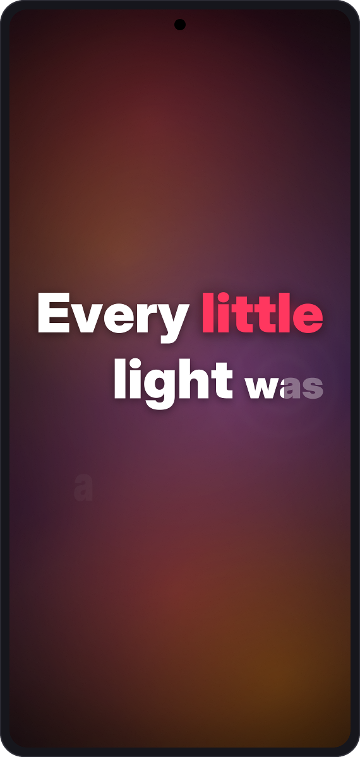
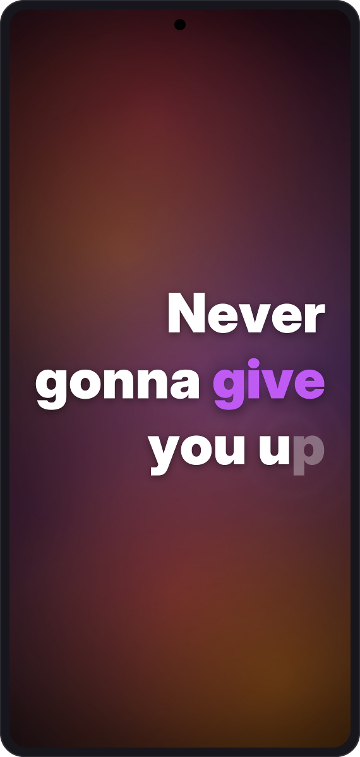
Screenshots: English shots use "Never gonna give you up"
Claude-Session: https://claude.ai/code/session_01MLXWG1CmD9ZGWnpi2j6esJ

Changed region(s): [[0.0917, 0.3646, 0.9167, 0.5469], [0.3972, 0.5773, 0.9167, 0.638]]

diff --git a/tools/screenshots/src/Render.kt b/tools/screenshots/src/Render.kt
@@ -221,13 +221,19 @@ class Shot(
     val at: Float,
     val seed: Int,
     val playSeed: Int,
+    /** How far through that word's sung time the frame is. */
+    val fill: Float = 0.5f,
 )
 
 const val W = 1080
 const val H = 2340
 
+/** Extra sample files that only the screenshots use. */
+val EXTRA_SAMPLES = File(System.getProperty("extraSamples") ?: "samples")
+
 fun findLine(file: String, prefix: String): LyricLine {
-    val lyrics = LyricsBuilder.fromLrc(File(SAMPLES, "$file.lrc").readText(), 180_000)
+    val src = File(EXTRA_SAMPLES, "$file.lrc").takeIf { it.exists() } ?: File(SAMPLES, "$file.lrc")
+    val lyrics = LyricsBuilder.fromLrc(src.readText(), 213_000)
     return lyrics.lines.first { it.text.startsWith(prefix) }
 }
 
@@ -240,7 +246,7 @@ fun renderStage(s: Shot, dim: Float = 1f): BufferedImage {
     val layout = template.layout(measured, stage, s.seed)
     val k = (line.words.size * s.at).toInt().coerceIn(0, line.words.lastIndex)
     val word = line.words[k]
-    val pos = word.startMs + (word.durationMs * 0.5).toLong()
+    val pos = word.startMs + (word.durationMs * s.fill).toLong()
     val highlights = Highlights.pick(line, s.playSeed)
     val accent = s.pal.accents[Highlights.accentIndex(line, s.playSeed)]
 
@@ -406,10 +412,10 @@ fun renderControls(base: BufferedImage, pal: Pal): BufferedImage {
     g.fill(RoundRectangle2D.Float(pad, y, thumb, thumb, 16 * dp, 16 * dp))
     g.color = Color.WHITE
     g.font = fSemi.deriveFont(18 * dp)
-    g.drawString("Paper Lanterns", pad + thumb + 14 * dp, y + 24 * dp)
+    g.drawString("Never Gonna Give You Up", pad + thumb + 14 * dp, y + 24 * dp)
     g.color = Color(255, 255, 255, 178)
     g.font = fRegular.deriveFont(14 * dp)
-    g.drawString("Test Artist", pad + thumb + 14 * dp, y + 46 * dp)
+    g.drawString("Rick Astley", pad + thumb + 14 * dp, y + 46 * dp)
     g.color = Color.WHITE
     g.font = fSemi.deriveFont(14 * dp)
     val st = "Settings"
@@ -418,7 +424,7 @@ fun renderControls(base: BufferedImage, pal: Pal): BufferedImage {
 
     // seek bar
     val trackW = W - pad * 2
-    val prog = 0.38f
+    val prog = 0.094f
     g.color = Color(255, 255, 255, 60)
     g.fill(RoundRectangle2D.Float(pad, y - 2 * dp, trackW, 4 * dp, 4 * dp, 4 * dp))
     g.color = Color.WHITE
@@ -427,8 +433,8 @@ fun renderControls(base: BufferedImage, pal: Pal): BufferedImage {
     y += 26 * dp
     g.color = Color(255, 255, 255, 178)
     g.font = fRegular.deriveFont(12 * dp)
-    g.drawString("1:12", pad, y)
-    val tot = "3:08"
+    g.drawString("0:20", pad, y)
+    val tot = "3:33"
     g.drawString(tot, W - pad - g.fontMetrics.stringWidth(tot), y)
     y += 40 * dp
 
@@ -534,8 +540,8 @@ fun main() {
     val rose = Pal(0xFF160812.toInt(), listOf(0xFFBF5AF2.toInt(), 0xFFFF375F.toInt(), 0xFFFF9F0A.toInt()))
 
     val shots = listOf(
-        Shot("stack", "english", "Every little light", TemplateId.STACK, sunset, 0.5f, 11, 4),
-        Shot("zoom", "english", "We lit the paper", TemplateId.ZOOM, dusk, 0.62f, 3, 9),
+        Shot("stack", "rickroll", "Never gonna", TemplateId.STACK, sunset, 0.85f, 11, 4),
+        Shot("zoom", "rickroll", "Never gonna", TemplateId.ZOOM, dusk, 0.85f, 3, 9, fill = -0.12f),
         Shot("graph", "hindi", "तेरी यादों", TemplateId.GRAPH, ember, 0.7f, 21, 2),
         Shot("flow", "japanese", "夜空に", TemplateId.FLOW, ocean, 0.55f, 5, 6),
         Shot("letters", "bengali", "তোমার গানে", TemplateId.LETTERS, rose, 0.6f, 8, 3),
@@ -548,7 +554,7 @@ fun main() {
         phones[s.name] = ph
         save(scale(ph, 360), "stage-${s.name}.png")
     }
-    val ctrlBase = renderStage(Shot("controls", "english", "Every little light", TemplateId.STACK, sunset, 0.5f, 11, 4))
+    val ctrlBase = renderStage(Shot("controls", "rickroll", "Never gonna", TemplateId.STACK, sunset, 0.85f, 11, 4))
     val controls = phone(renderControls(ctrlBase, sunset))
     phones["controls"] = controls
     save(scale(controls, 360), "controls.png")

diff --git a/README.md b/README.md
@@ -30,7 +30,7 @@ LyricStage shows word-synced lyrics for whatever is playing on your Android phon
 
 Tap the stage to show the controls for three seconds: seek bar, play and pause, skip, layout picker and sync nudge.
 
-The images above are drawn by the app's own layout engine (`core`) from the sample lyrics in `core/src/test/resources/samples`, using the bundled fonts. The background is an approximation of the shader. `tools/screenshots/render.sh` regenerates them.
+The images above are drawn by the app's own layout engine (`core`) with the bundled fonts, from the sample lyrics in `core/src/test/resources/samples` plus one line of Rick Astley's "Never Gonna Give You Up" for the English shots. The background is an approximation of the shader. `tools/screenshots/render.sh` regenerates them.
 
 ## Install
 
